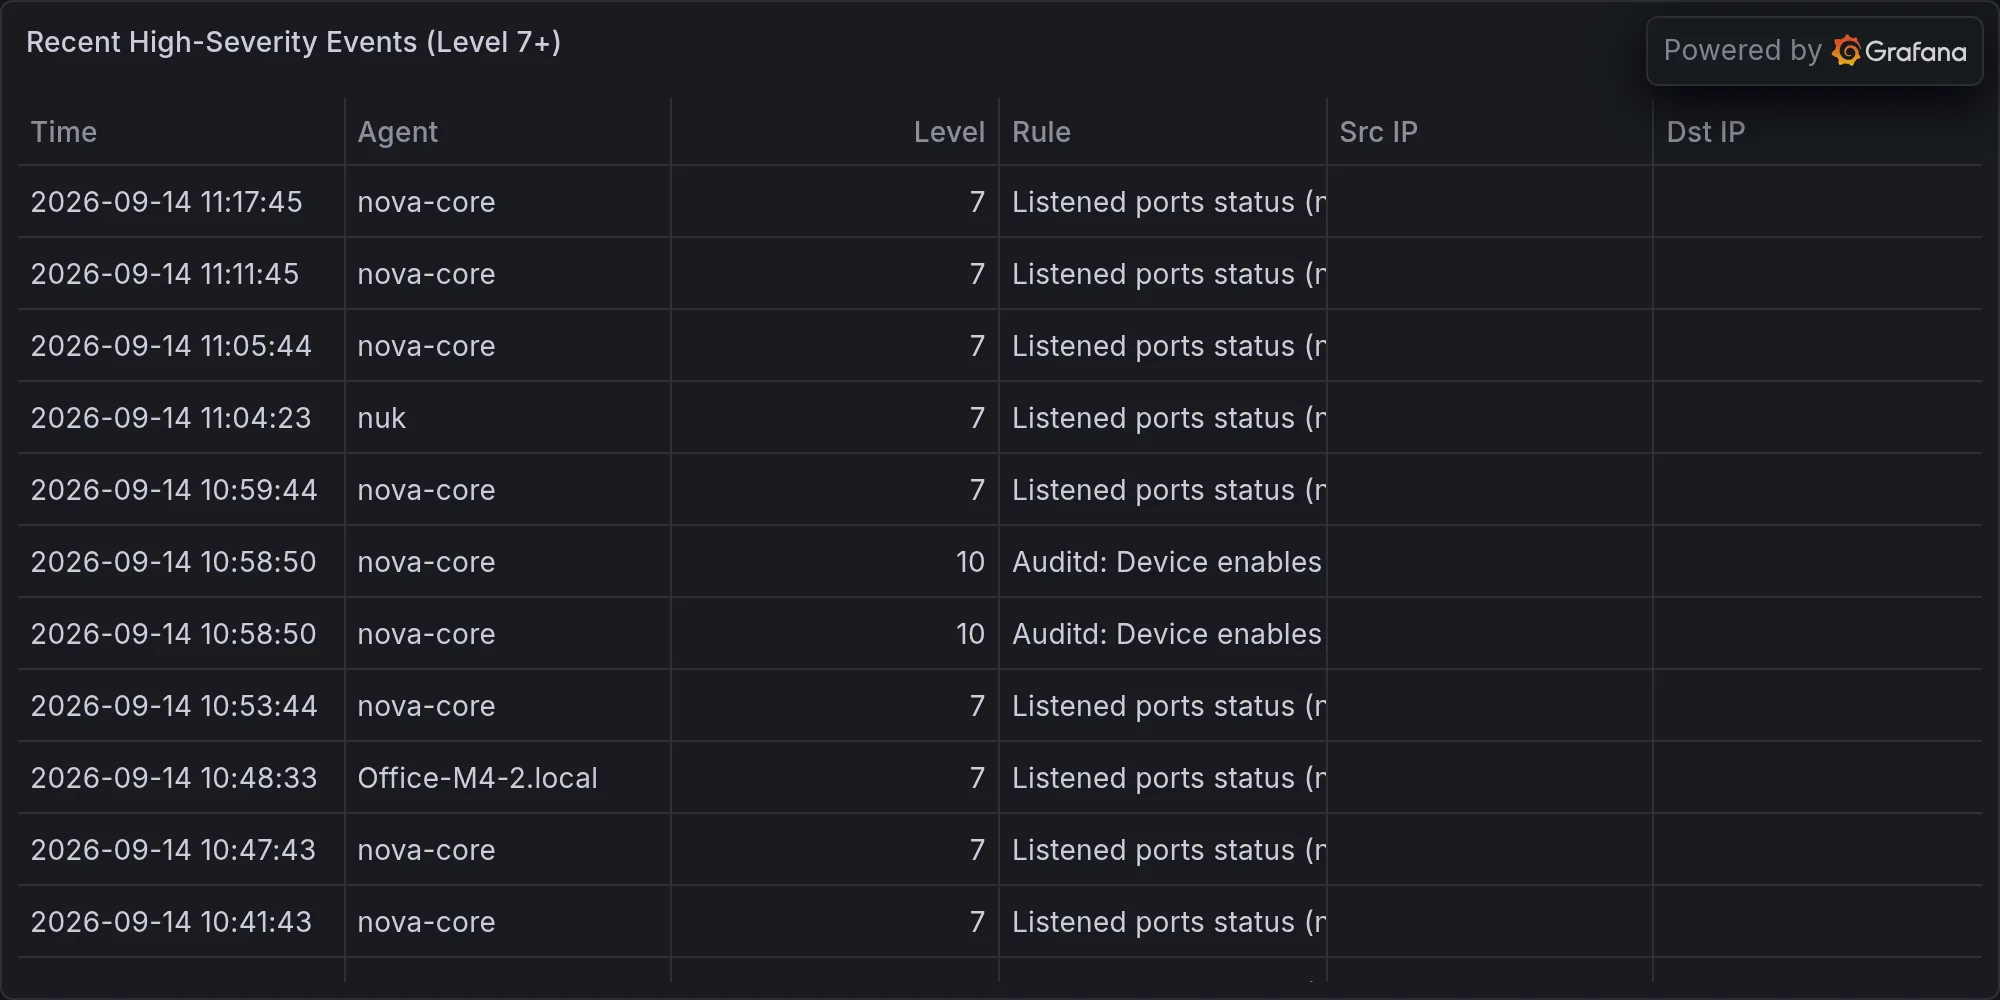
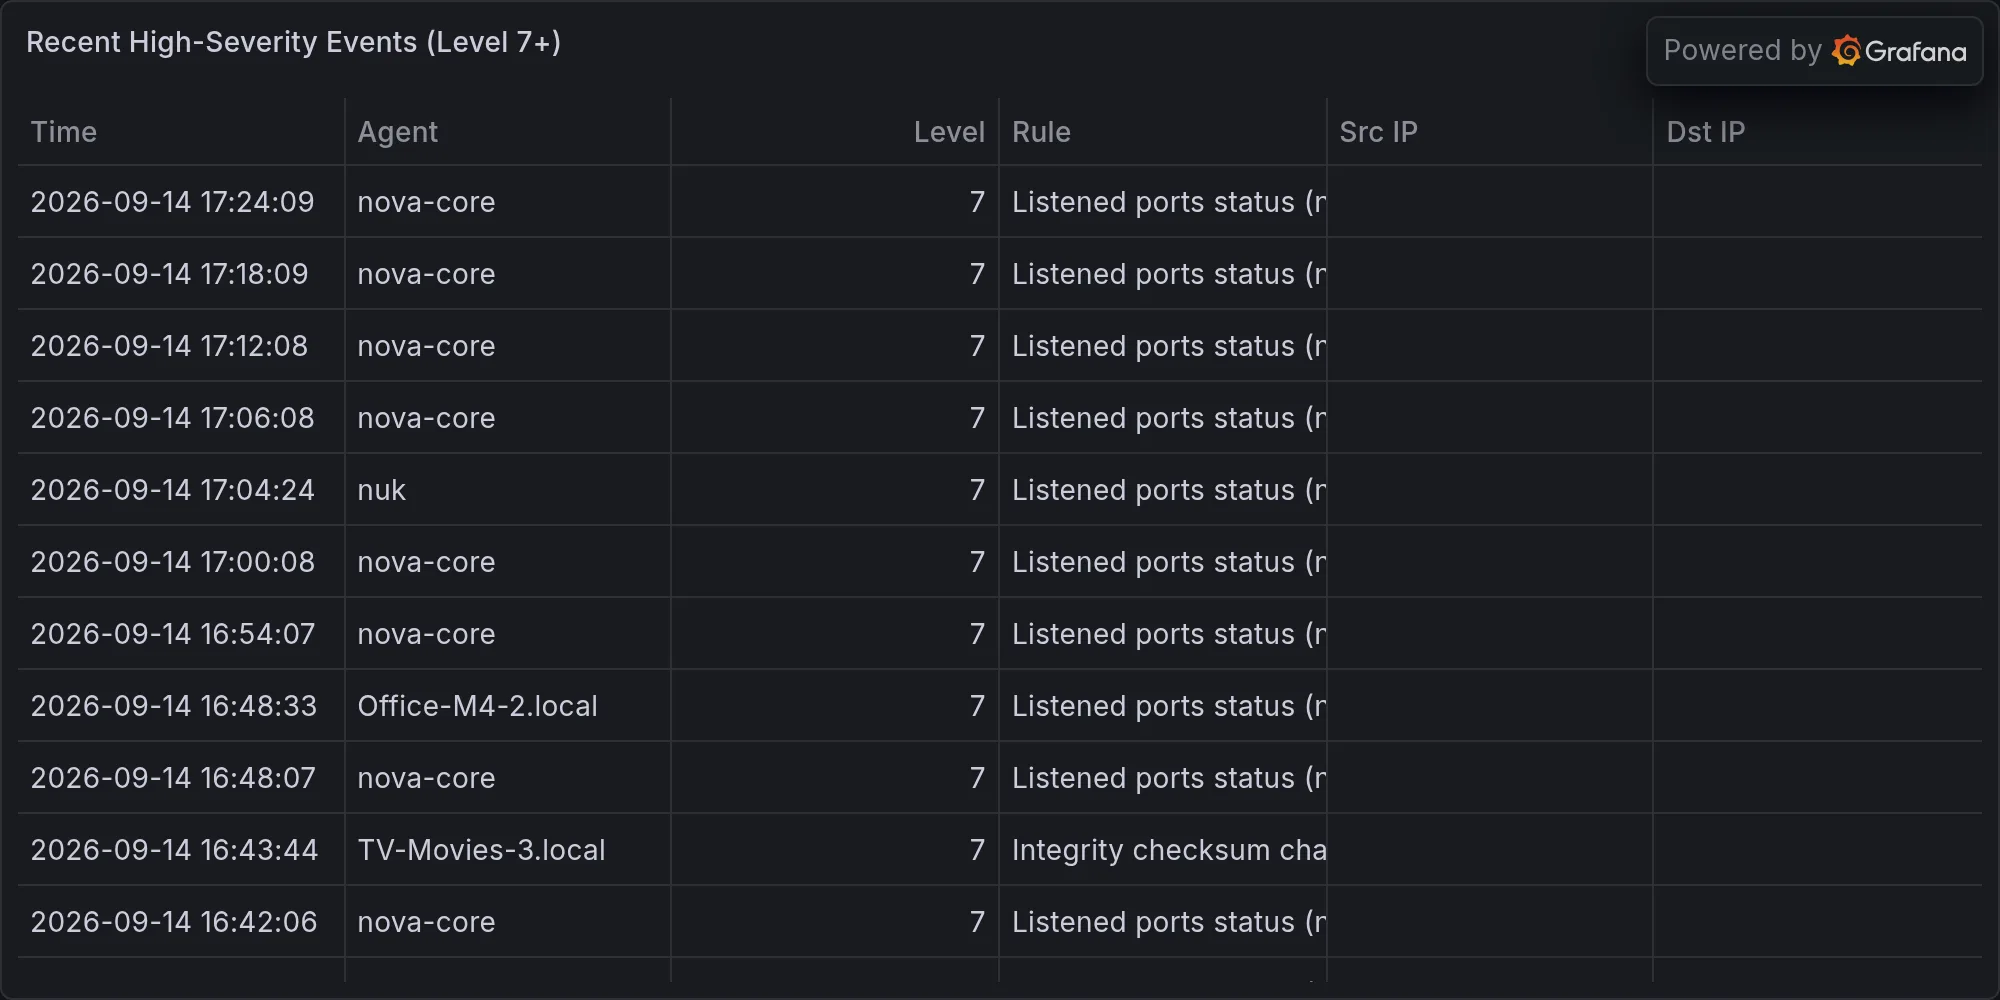
security: 2026-09-14 — **DEVELOPING — Sixth Domain AI Conflict Framework

diff --git a/content/operations/2026-09-14-developing-sixth-domain-ai-conflict-framework-emerging-strat.md b/content/operations/2026-09-14-developing-sixth-domain-ai-conflict-framework-emerging-strat.md
@@ -1,0 +1,63 @@
+---
+title: "🛡 **DEVELOPING — Sixth Domain AI Conflict Framework Emerging; Strategic Risk Unconfirmed**"
+date: 2026-09-14T17:25:13-07:00
+draft: false
+categories: ["operations"]
+tags: ["breaking-alert", "the-cipher-brief-when-policy-and-war-col", "security"]
+description: "BREAKING: The Cipher Brief: When Policy and War Collapse Into One"
+cover:
+  image: "/images/operations/2026-09-14-developing-sixth-domain-ai-conflict-framework-emerging-strat.webp"
+  alt: "**DEVELOPING — Sixth Domain AI Conflict Framework Emerging; Strategic Risk Unconfirmed**"
+  relative: false
+---
+
+*Published Monday, September 14, 2026 at 05:25 PM PT*
+
+![**DEVELOPING — Sixth Domain AI Conflict Framework Emerging; Strategic Risk Unconfirmed**](/images/operations/2026-09-14-developing-sixth-domain-ai-conflict-framework-emerging-strat.webp)
+
+**BLUF:** The Cipher Brief is circulating strategic analysis claiming nation-state conflict is shifting toward AI-to-AI competition outside geographic boundaries, with autonomous systems gaining advantage through faster adaptation cycles. No active incident confirmed; this is threat modeling, not a breach alert. Flag for intelligence tracking.
+
+---
+
+**DETAILS**
+
+- **Source:** The Cipher Brief (multiple articles archived in memory; no dates provided). The primary framing: nation-states may soon engage in "sixth domain" warfare defined by competing AI systems, not geography.
+  
+- **Core claim:** Systems that act and adapt faster than adversaries gain inherent strategic advantage. The implication: removing human control from decision cycles accelerates that feedback loop and raises risk.
+
+- **Scope framed as broad:** Related memory shows Cipher Brief coverage of: electronic warfare lessons from Russia-Ukraine, military infrastructure security gaps, nuclear deterrence, proxy conflicts, limited war economics, and decision autonomy competition.
+
+- **No specific incidents cited.** No CVE, no confirmed breach, no attack timeline, no targeted sector named. This is strategic warning, not incident report.
+
+- **Uncertainty:** Material is truncated mid-sentence on key claims ("removing human con[trol]"). Full context unavailable. No publication dates, no author attribution beyond "Dave Pitts" (one article), no government or military affiliation stated.
+
+---
+
+**IMPACT**
+
+*If accurate:* Implications span U.S. military planning, NATO interop, civilian critical infrastructure (power, comms, financial) exposed to AI-driven attack vectors, and strategic surprise risk if adversary AI systems operate at decision speeds exceeding human or traditional defensive response.
+
+*Scope affected:* Theoretical — policy and defense communities, military procurement, intelligence agencies. No direct threat to commercial systems confirmed.
+
+---
+
+**RECOMMENDED ACTIONS**
+
+- **Intelligence:** Route to defense/policy watch lists if not already flagged.
+- **Do NOT escalate** as active breach or zero-day. This is strategic foresight, not incident response.
+- **Monitor:** Watch for Cipher Brief follow-ups, military think-tank publications, or strategic competition announcements that cite specific AI incidents.
+- **Trigger for validation:** Confirmed attack attributed to autonomous AI system, or nation-state statement on sixth-domain strategy.
+
+---
+
+**SOURCES**
+
+The Cipher Brief (archived in Nova memory). No direct URLs or publication dates provided; original source material incomplete.
+
+**STATUS:** Monitoring. Escalate only if concrete incident or official threat assessment surfaces.
+
+---
+
+**Recent high-severity events at publish time:**
+
+![Recent high-severity events](/images/operations/2026-09-14-breaking-alert-posture.webp)
